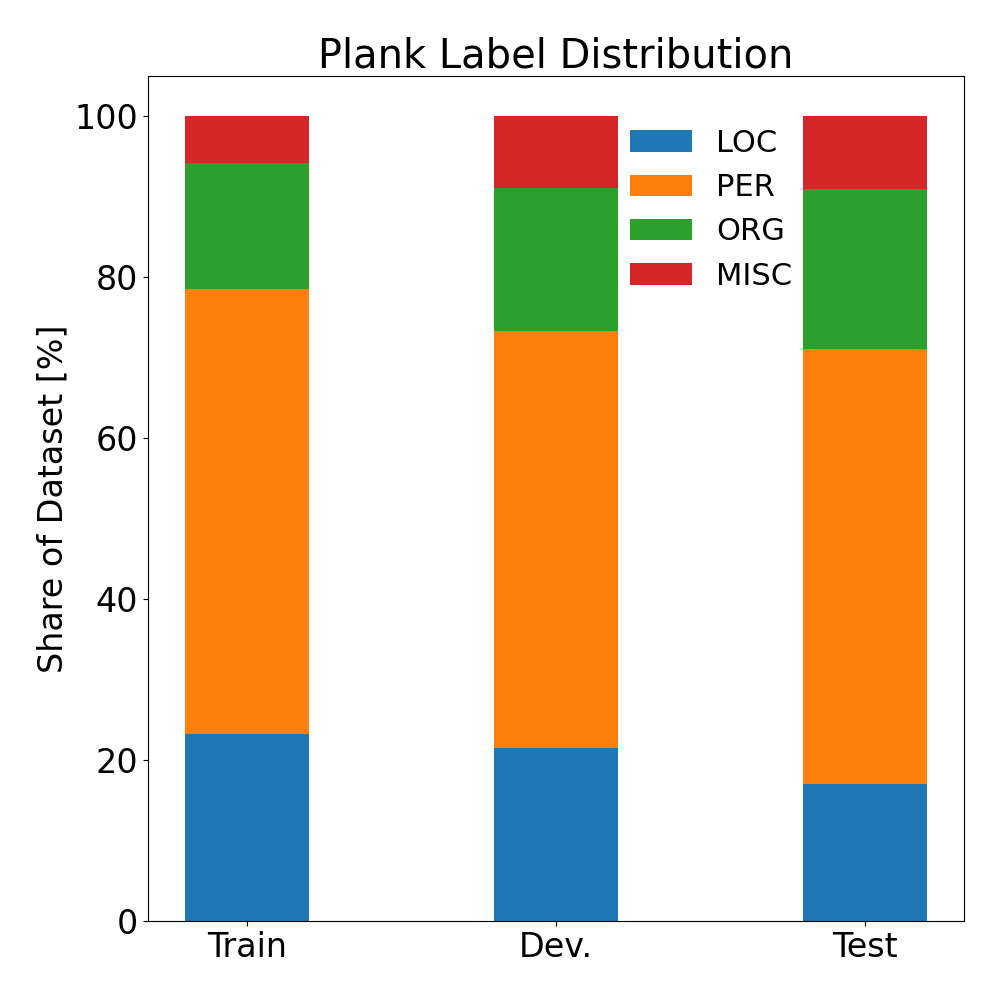
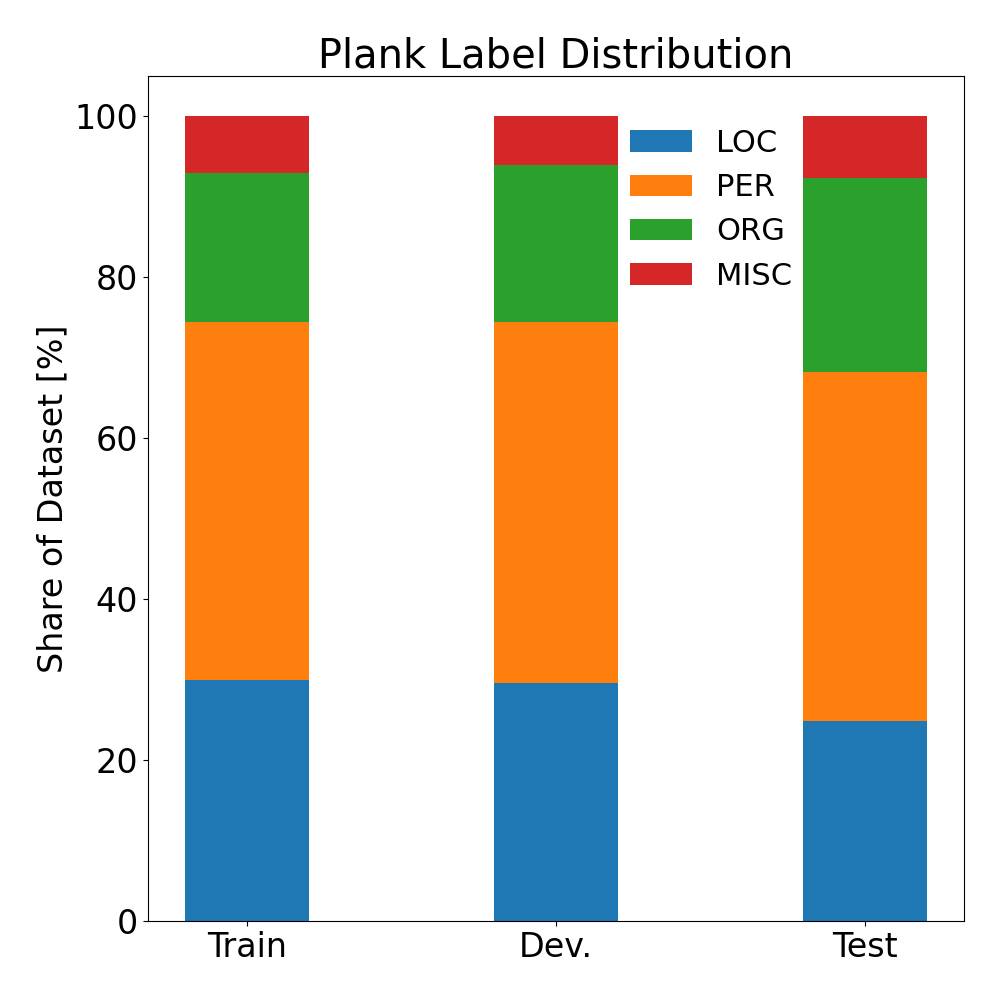
Jeg kan ikke tælle

diff --git a/sections/data.tex b/sections/data.tex
@@ -136,11 +136,11 @@ Previous literature has highlighted the scarcity of accessible, gold-standard, D
     \centering
     \begin{tabular}{l|r r r r}
         Subset of data  &LOC    &PER     &ORG    &MISC \\\hline
-        Train.          &945    &1,249   &802    &1,007 \\
+        Training        &945    &1,249   &802    &1,007 \\
         Dev.            &111    &166     &90     &113 \\
         Test            &96     &180     &161    &121
     \end{tabular}
-    \caption{DaNE entity distribution by data split.}
+    \caption{Number of entities by category and data split in DaNE.}
     \label{tab:danedist}
 \end{table}\noindent
 
@@ -157,7 +157,7 @@ Previous literature has highlighted the scarcity of accessible, gold-standard, D
     \end{minipage}
     \caption{
         Distribution of entity labels in the three Danish NER datasets.
-        Notably, DaNE and Plank do not have the same distributions in the three datasubsets, with e.g. LOC being under-represented in the DaNE test set and MISC being under-represented in the Plank training set.
+        Notably, DaNE and Plank do not have the same distributions in the three datasubsets, with e.g. LOC being under-represented in the DaNE test set and MISC being over-represented in the Plank test set.
         WikiANN is the only dataset that has the same distribution in all three subsets.
     }
     \label{fig:dadatadist}

diff --git a/sections/discussion.tex b/sections/discussion.tex
@@ -954,7 +954,10 @@ For this reason, a confusion matrix (Table \ref{tab:pred-true-confmat}) is const
             & MISC & 0  & 0    & 16  & 114 & 29  \\
             & O    & 5  & 0    & 8   & 14  & 9,197
     \end{tabular}
-    \caption{Predicted labels versus the true labels on the DaNE test set.}
+    \caption{
+        Predicted labels versus the true labels on the DaNE test set.
+        Note that this count is done on word level, so entities spanning multiple words appear multiple times in the table.
+    }
     \label{tab:pred-true-confmat}
 \end{table}\noindent
 From the table, there are two major sources for errors:
